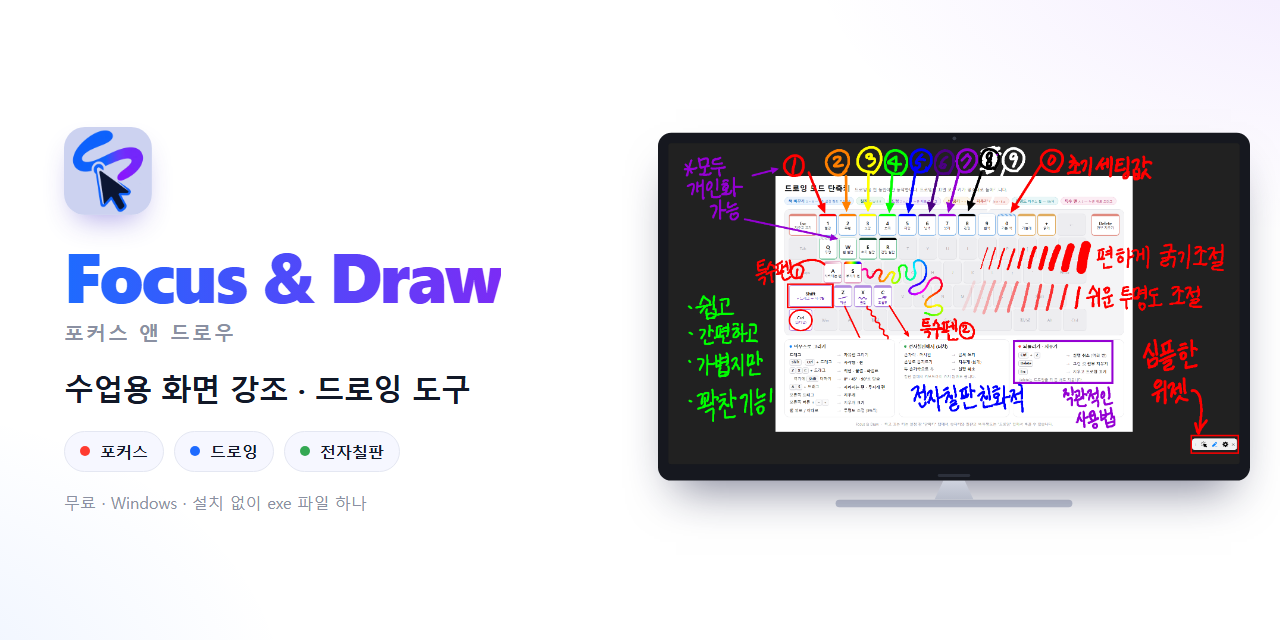
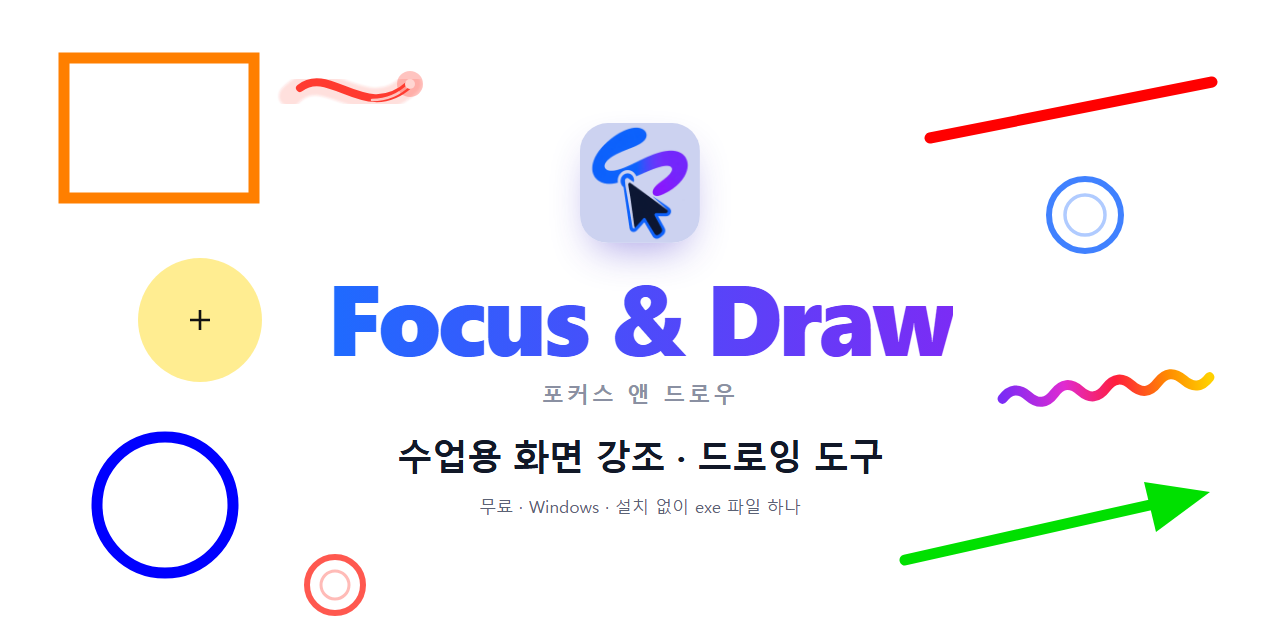
Give the GitHub preview its own design: the name up front, the tools around it
The social preview reused the cover's board picture shrunk to fit,
where the demo capture turned into small print. It is now a design of
its own: the icon, name and one-line description large in the middle,
with examples of what the program draws around them - a rectangle, a
line, a rainbow wave, an arrow, a circle and a vanishing-pen tail - and
the highlight mode's effects: the yellow spot with its crosshair and
the left- and right-click rings. A soft white fade behind the text
keeps it readable.

Changed region(s): [[0.0312, 0.0625, 1.0, 0.9062], [0.2188, 0.8438, 0.3125, 0.9688]]

diff --git a/소개자료/slides.html b/소개자료/slides.html
@@ -221,19 +221,20 @@
   #s7 .dl .mit b { color:var(--ink); }
   #s7 .dl .mit .t { font-size:19px; font-weight:800; color:var(--ink); margin-bottom:4px; }
 
-  /* ---------- GitHub 링크 썸네일 (1280x640) ---------- */
+  /* ---------- GitHub 링크 썸네일 (1280x640) ----------
+     가운데에 아이콘과 이름을 크게, 둘레에 드로잉 예시(사각형 · 직선 · 무지개 물결 · 화살표 · 원)와
+     포커스 효과(노란 강조 원 + 십자선, 왼쪽 · 오른쪽 클릭 링)를 깐다. 글자 뒤는 흰 안개로 받쳐 읽히게 한다. */
   html.og, html.og body { width:1280px; height:640px; }
-  #og { width:1280px; height:640px; padding:0 64px; flex-direction:row; align-items:center; gap:34px; }
-  #og .left { width:560px; flex-shrink:0; }
-  #og .appicon { width:88px; height:88px; border-radius:21px; box-shadow:0 14px 30px -12px rgba(60,40,200,.45); }
-  #og .title { font-size:70px; font-weight:800; letter-spacing:-2.5px; margin-top:20px; line-height:1; font-family:"Segoe UI","Malgun Gothic"; }
-  #og .kor { font-size:20px; color:var(--soft); margin-top:10px; font-weight:700; letter-spacing:2px; }
-  #og .tag { font-size:30px; font-weight:800; margin-top:22px; line-height:1.35; letter-spacing:-.8px; }
-  #og .pills { gap:10px; margin-top:22px; }
-  #og .pill { padding:9px 15px; font-size:16px; }
-  #og .meta { margin-top:20px; font-size:16px; color:var(--soft); }
-  #og .boardwrap { width:800px; transform:scale(.74); transform-origin:left center; flex-shrink:0; }
-</style>
+  #og { width:1280px; height:640px; padding:0; align-items:center; justify-content:center; background:#fff; }
+  #og .deco { position:absolute; inset:0; }
+  #og .fog { position:absolute; left:50%; top:50%; width:740px; height:540px; transform:translate(-50%,-50%);
+    background:radial-gradient(closest-side, rgba(255,255,255,.97) 55%, rgba(255,255,255,.85) 72%, rgba(255,255,255,0) 100%); }
+  #og .center { position:relative; display:flex; flex-direction:column; align-items:center; text-align:center; }
+  #og .appicon { width:120px; height:120px; border-radius:28px; box-shadow:0 18px 40px -14px rgba(60,40,200,.45); }
+  #og .title { font-size:100px; font-weight:800; letter-spacing:-3.5px; margin-top:22px; line-height:1; font-family:"Segoe UI","Malgun Gothic"; }
+  #og .kor { font-size:22px; color:var(--soft); margin-top:14px; font-weight:700; letter-spacing:3px; }
+  #og .tag { font-size:36px; font-weight:800; margin-top:24px; letter-spacing:-1px; }
+  #og .meta { font-size:17px; color:var(--muted); margin-top:14px; }</style>
 </head>
 <body>
 
@@ -560,29 +561,51 @@
 
 <!-- ======================= GitHub 링크 썸네일 ======================= -->
 <section class="slide" id="og">
-  <div class="left">
+  <svg class="deco" width="1280" height="640" viewBox="0 0 1280 640">
+    <defs>
+      <linearGradient id="rb" x1="0" x2="1"><stop offset="0" stop-color="#7b2cf5"/><stop offset=".3" stop-color="#e02bd1"/><stop offset=".55" stop-color="#ff1e3c"/><stop offset=".8" stop-color="#ff8a00"/><stop offset="1" stop-color="#ffd000"/></linearGradient>
+      <filter id="soft" x="-30%" y="-30%" width="160%" height="160%"><feGaussianBlur stdDeviation="1.2"/></filter>
+    </defs>
+    <!-- 드로잉: 사각형 (왼쪽 위) -->
+    <rect x="64" y="58" width="190" height="140" fill="none" stroke="#ff7f00" stroke-width="11"/>
+    <!-- 드로잉: 직선 (오른쪽 위) -->
+    <line x1="930" y1="138" x2="1212" y2="82" stroke="#ff0000" stroke-width="11" stroke-linecap="round"/>
+    <!-- 드로잉: 무지개 물결 (오른쪽 가운데) -->
+    <path id="wave" d="M1002 388 q 13 -14 26 0 t 26 0 t 26 0 t 26 0 t 26 0 t 26 0 t 26 0 t 26 0" transform="rotate(-6 1106 388)" fill="none" stroke="url(#rb)" stroke-width="10" stroke-linecap="round" stroke-linejoin="round"/>
+    <!-- 드로잉: 화살표 (오른쪽 아래) -->
+    <line x1="905" y1="560" x2="1150" y2="505" stroke="#00e000" stroke-width="11" stroke-linecap="round"/>
+    <polygon points="1210,492 1144,482 1156,532" fill="#00e000"/>
+    <!-- 드로잉: 원 (왼쪽 아래) -->
+    <circle cx="165" cy="505" r="68" fill="none" stroke="#0000ff" stroke-width="11"/>
+
+    <!-- 포커스: 노란 강조 원 + 십자선 (왼쪽 가운데) -->
+    <circle cx="200" cy="320" r="62" fill="#ffd60a" fill-opacity=".45"/>
+    <path d="M200 310 V330 M190 320 H210" stroke="#111" stroke-width="2.6"/>
+    <!-- 포커스: 왼쪽 클릭 링 (위 가운데 오른쪽) -->
+    <circle cx="1085" cy="215" r="36" fill="none" stroke="#1e6bff" stroke-width="6" stroke-opacity=".85"/>
+    <circle cx="1085" cy="215" r="20" fill="none" stroke="#1e6bff" stroke-width="3.5" stroke-opacity=".35"/>
+    <!-- 포커스: 오른쪽 클릭 링 (아래 가운데 왼쪽) -->
+    <circle cx="335" cy="585" r="28" fill="none" stroke="#ff3b30" stroke-width="6" stroke-opacity=".85"/>
+    <circle cx="335" cy="585" r="14" fill="none" stroke="#ff3b30" stroke-width="3" stroke-opacity=".35"/>
+    <!-- 사라지는 펜: 레이저 꼬리 (왼쪽 위 → 가운데 쪽) -->
+    <path d="M290 96 C 325 58, 365 128, 410 84" stroke="#ff3b30" stroke-width="22" stroke-opacity=".16" fill="none" stroke-linecap="round" filter="url(#soft)"/>
+    <path d="M300 88 C 330 64, 366 124, 410 84" stroke="#ff3b30" stroke-width="8" fill="none" stroke-linecap="round"/>
+    <path d="M372 100 C 386 100, 400 94, 410 84" stroke="#ffc2bd" stroke-width="2.5" fill="none" stroke-linecap="round"/>
+    <circle cx="410" cy="84" r="13" fill="#ff3b30" fill-opacity=".3"/><circle cx="410" cy="84" r="5" fill="#ffd6d2"/>
+  </svg>
+  <div class="fog"></div>
+  <div class="center">
     <img class="appicon" src="{{icon.png}}">
     <div class="title"><span class="grad">Focus &amp; Draw</span></div>
     <div class="kor">포커스 앤 드로우</div>
     <div class="tag">수업용 화면 강조 · 드로잉 도구</div>
-    <div class="pills">
-      <div class="pill"><span class="dot" style="background:var(--red)"></span>포커스</div>
-      <div class="pill"><span class="dot" style="background:var(--blue)"></span>드로잉</div>
-      <div class="pill"><span class="dot" style="background:var(--green)"></span>전자칠판</div>
-    </div>
     <div class="meta">무료 · Windows · 설치 없이 exe 파일 하나</div>
   </div>
-  <div class="boardwrap"></div>
 </section>
-
 <script>
   var h = (location.hash || '#1').slice(1);
   if (h === 'og') {
-    // 썸네일: 1장의 전자칠판 장면을 그대로 가져온다 (아래 설명 줄은 뺀다)
     document.documentElement.classList.add('og');
-    var b = document.querySelector('#s1 .board').cloneNode(true);
-    var n = b.querySelector('.capnote'); if (n) n.remove();
-    document.querySelector('#og .boardwrap').appendChild(b);
     document.getElementById('og').classList.add('show');
   } else {
     document.getElementById('s' + (parseInt(h, 10) || 1)).classList.add('show');
